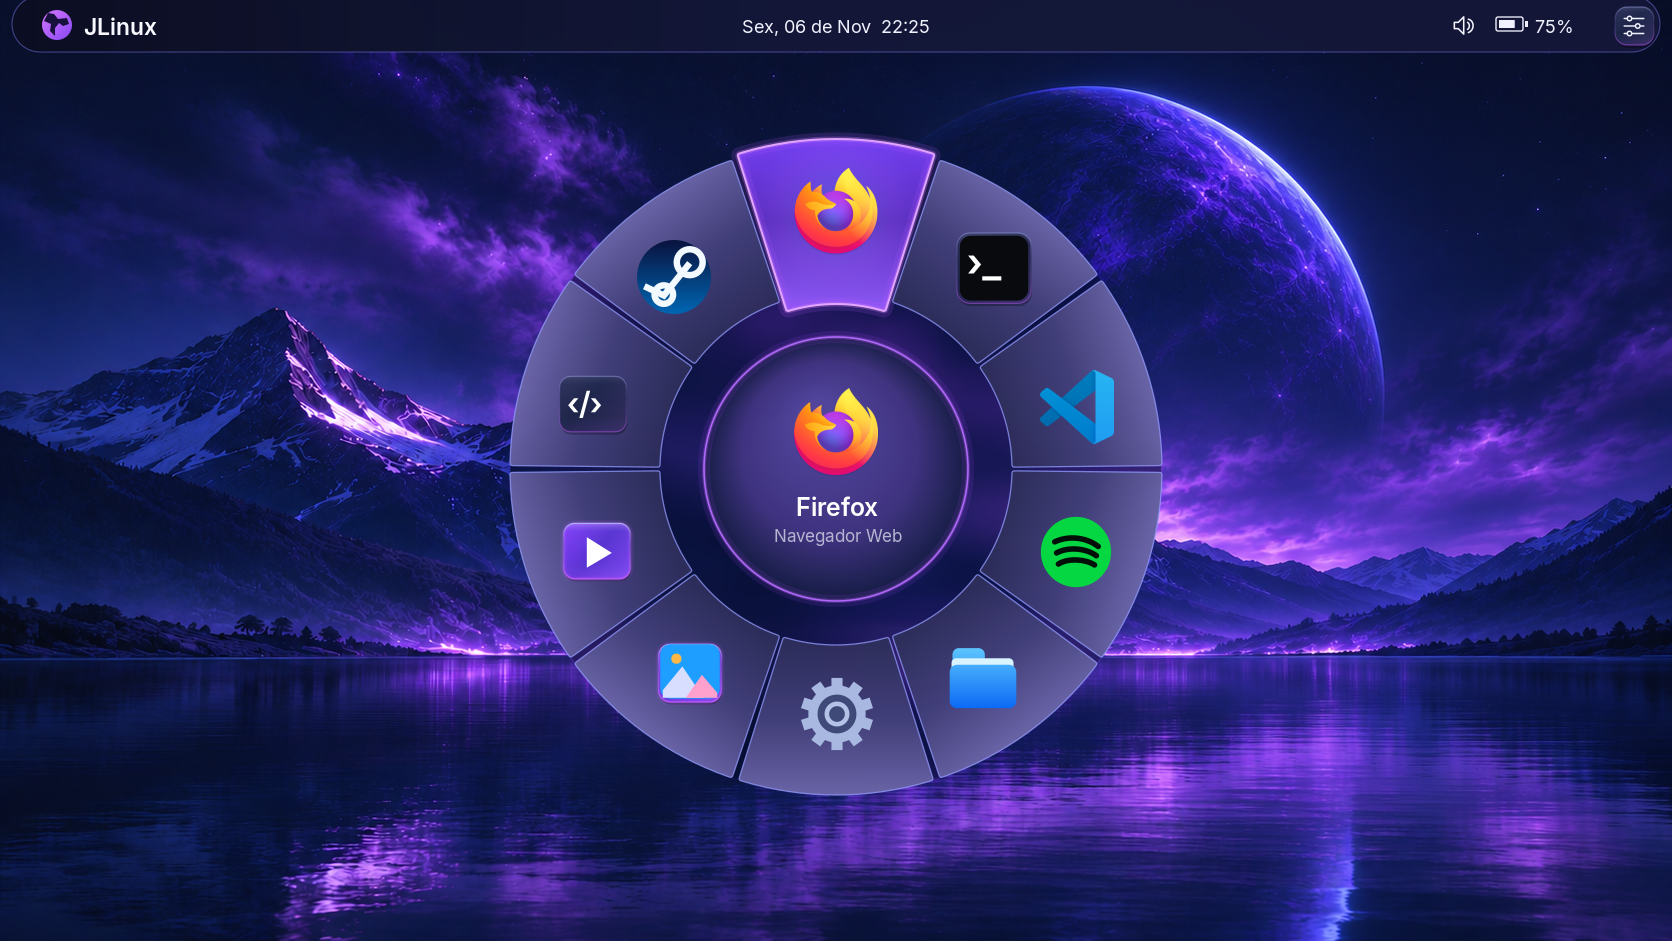
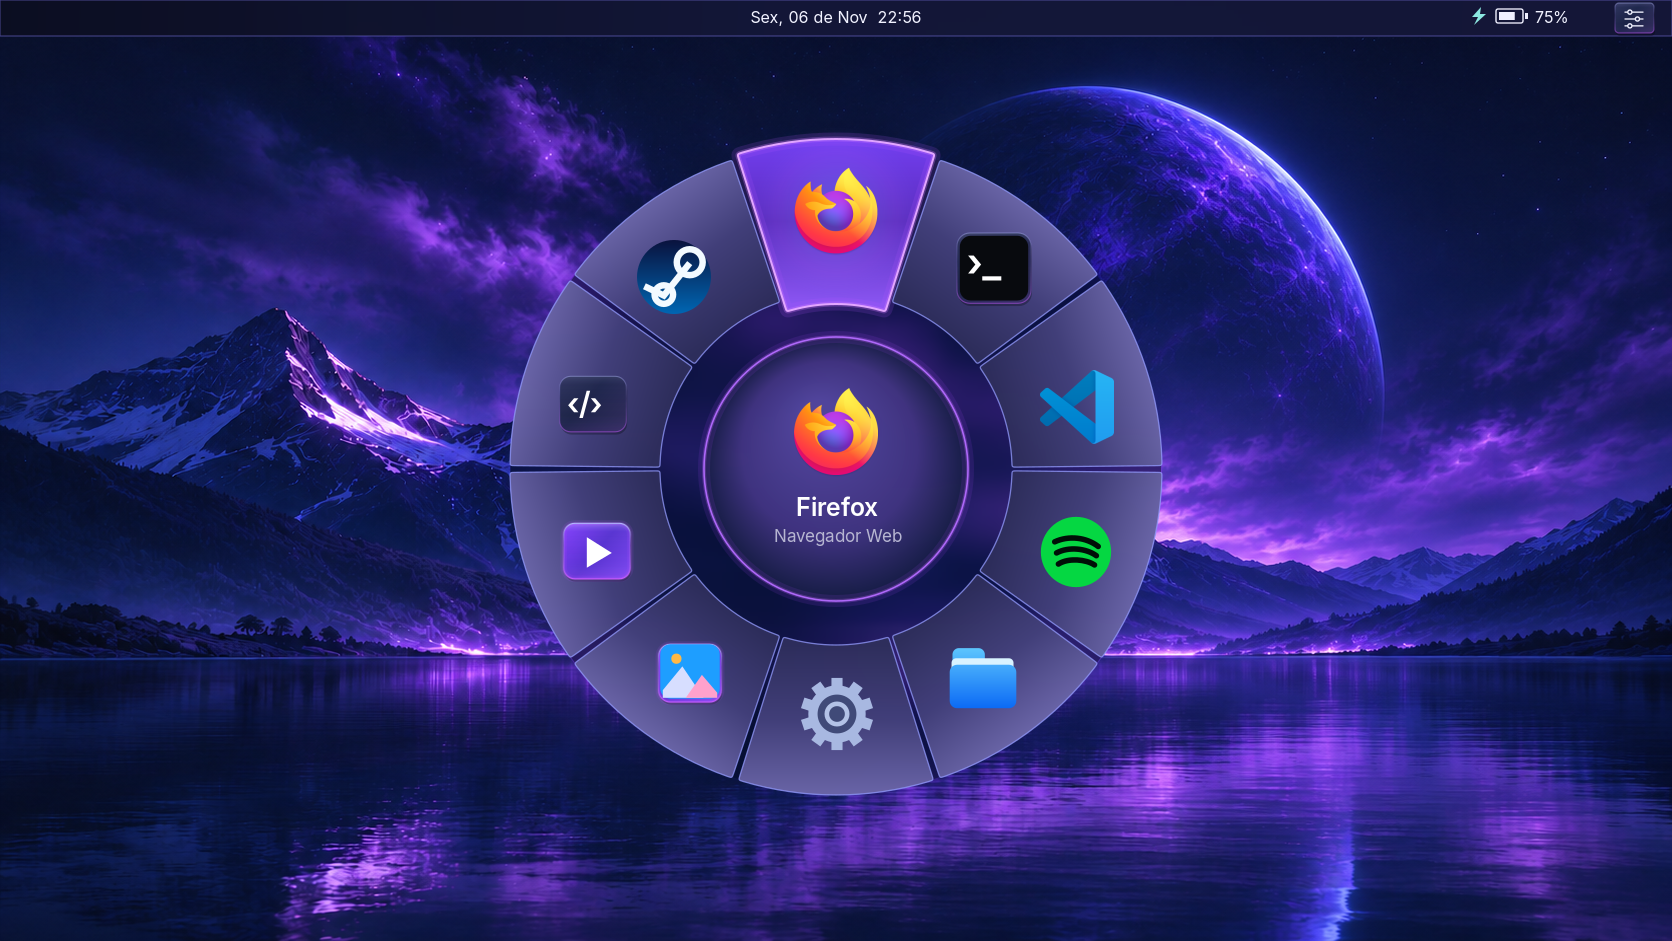
feat: compact top panel and show battery charging status

Changed region(s): [[0.0, 0.0, 1.0, 0.0616]]

diff --git a/src/shell/futurista.c b/src/shell/futurista.c
@@ -1,4 +1,5 @@
 #include "futurista.h"
+#include "battery.h"
 #include "../renderer/blur.h"
 #include "../effects/dock.h"
 #include <gio/gio.h>
@@ -417,9 +418,9 @@ static void blurred_backdrop(struct futurista *s, cairo_t *cr, int width, int he
 }
 void futurista_panel(struct futurista *s, cairo_t *cr, int width) {
     cairo_save(cr);
-    roundrect(cr, 12, -4, width - 24, 56, 28);
+    cairo_rectangle(cr, 0, 0, width, 36);
     blurred_backdrop(s, cr, width, 941);
-    roundrect(cr, 12, -4, width - 24, 56, 28);
+    cairo_rectangle(cr, 0, 0, width, 36);
     cairo_pattern_t *header = cairo_pattern_create_linear(0, 0, width, 52);
     cairo_pattern_add_color_stop_rgba(header, 0, s->glass.tint ? .045 : .07, s->glass.tint ? .055 : .07,
                                       s->glass.tint ? .13 : .07, .97);
@@ -437,30 +438,7 @@ void futurista_panel(struct futurista *s, cairo_t *cr, int width) {
     } else {
         cairo_new_path(cr);
     }
-    cairo_pattern_t *p = cairo_pattern_create_linear(42, 10, 72, 41);
-    cairo_pattern_add_color_stop_rgb(p, 0, .84, .46, 1);
-    cairo_pattern_add_color_stop_rgb(p, 1, .52, .28, .95);
-    circle(cr, 57, 25, 15);
-    cairo_set_source(cr, p);
-    cairo_fill(cr);
-    cairo_pattern_destroy(p);
-    cairo_set_source_rgb(cr, .10, .07, .24);
-    cairo_move_to(cr, 48, 13);
-    cairo_line_to(cr, 54, 14);
-    cairo_line_to(cr, 58, 19);
-    cairo_line_to(cr, 67, 18);
-    cairo_line_to(cr, 69, 24);
-    cairo_line_to(cr, 63, 26);
-    cairo_line_to(cr, 59, 23);
-    cairo_line_to(cr, 55, 28);
-    cairo_line_to(cr, 55, 36);
-    cairo_line_to(cr, 50, 31);
-    cairo_line_to(cr, 51, 24);
-    cairo_line_to(cr, 44, 21);
-    cairo_close_path(cr);
-    cairo_fill(cr);
-    text(cr, "JLinux", 84, 12, 23, true, 0xf8f8ff);
-    line_icon(cr, 11, width - 220, 13, 25, 0xf4f3ff);
+    cairo_translate(cr, 0, -8);
     cairo_set_source_rgb(cr, .94, .94, 1);
     roundrect(cr, width - 176, 17, 27, 14, 2);
     cairo_set_line_width(cr, 1.4);
@@ -471,9 +449,16 @@ void futurista_panel(struct futurista *s, cairo_t *cr, int width) {
         cairo_rectangle(cr, width - 173, 20, 21 * s->battery / 100., 8);
         cairo_fill(cr);
     }
+    if (s->charging) {
+        cairo_set_source_rgb(cr, .55, .91, .88);
+        cairo_move_to(cr, width - 191, 15); cairo_line_to(cr, width - 200, 25);
+        cairo_line_to(cr, width - 194, 25); cairo_line_to(cr, width - 198, 33);
+        cairo_line_to(cr, width - 186, 22); cairo_line_to(cr, width - 192, 22);
+        cairo_close_path(cr); cairo_fill(cr);
+    }
     char battery[20];
     snprintf(battery, sizeof(battery), s->battery >= 0 ? "%d%%" : "—", s->battery);
-    text(cr, battery, width - 137, 15, 18, false, 0xf1f2ff);
+    text(cr, battery, width - 137, 15, 16, false, 0xf1f2ff);
     time_t now = time(NULL);
     struct tm t;
     localtime_r(&now, &t);
@@ -484,16 +469,16 @@ void futurista_panel(struct futurista *s, cairo_t *cr, int width) {
     snprintf(clock, sizeof(clock), "%s, %02d de %s  %02d:%02d", days[t.tm_wday], t.tm_mday, months[t.tm_mon],
              t.tm_hour, t.tm_min);
     PangoLayout *label = pango_cairo_create_layout(cr);
-    PangoFontDescription *font = pango_font_description_from_string("Adwaita Sans 18px");
+    PangoFontDescription *font = pango_font_description_from_string("Adwaita Sans 16px");
     pango_layout_set_font_description(label, font);
     pango_layout_set_text(label, clock, -1);
     int clock_width;
     pango_layout_get_pixel_size(label, &clock_width, NULL);
-    text(cr, clock, (width - clock_width) / 2., 15, 18, false, 0xf1f2ff);
+    text(cr, clock, (width - clock_width) / 2., 15, 16, false, 0xf1f2ff);
     pango_font_description_free(font);
     g_object_unref(label);
-    material(cr, width - 57, 7, 39, 38, 12, false, s->glass);
-    line_icon(cr, 13, width - 50, 14, 24, 0xf1f2ff);
+    material(cr, width - 57, 11, 39, 30, 4, false, s->glass);
+    line_icon(cr, 13, width - 49, 16, 22, 0xf1f2ff);
     cairo_restore(cr);
 }
 static void tint_stop(cairo_pattern_t *pattern, double position, double r, double g, double b, double alpha,
@@ -767,14 +752,8 @@ void futurista_status(struct futurista *s) {
     }
     globfree(&paths);
     memset(&paths, 0, sizeof(paths));
-    if (!glob("/sys/class/power_supply/*/capacity", 0, NULL, &paths) && paths.gl_pathc) {
-        int n = read_number(paths.gl_pathv[0]);
-        if (n >= 0 && n <= 100) {
-            s->battery = n;
-        }
-    }
-    globfree(&paths);
-    memset(&paths, 0, sizeof(paths));
+    struct battery_status battery = battery_read("/sys/class/power_supply");
+    s->battery = battery.percent; s->charging = battery.charging;
     if (!glob("/sys/class/net/*/wireless", 0, NULL, &paths)) {
         s->wifi = 0;
         for (size_t i = 0; i < paths.gl_pathc; i++) {

diff --git a/src/shell/battery.c b/src/shell/battery.c
@@ -1,0 +1,35 @@
+#include "battery.h"
+#include <ctype.h>
+#include <errno.h>
+#include <glob.h>
+#include <stdio.h>
+#include <stdlib.h>
+#include <string.h>
+struct battery_status battery_read(const char *root) {
+    struct battery_status result = {.percent = -1};
+    char pattern[4096];
+    int length = snprintf(pattern, sizeof(pattern), "%s/*/capacity", root);
+    if (length < 0 || (size_t)length >= sizeof(pattern)) { return result; }
+    glob_t paths = {0};
+    if (!glob(pattern, 0, NULL, &paths)) {
+        for (size_t i = 0; i < paths.gl_pathc; i++) {
+            FILE *file = fopen(paths.gl_pathv[i], "r"); char value[64];
+            if (!file) { continue; }
+            bool read = fgets(value, sizeof(value), file) != NULL; fclose(file);
+            if (!read) { continue; }
+            errno = 0; char *end; long percent = strtol(value, &end, 10);
+            if (end == value || errno || percent < 0 || percent > 100) { continue; }
+            while (isspace((unsigned char)*end)) { end++; }
+            if (*end) { continue; }
+            result.percent = (int)percent;
+            char status[4096];
+            length = snprintf(status, sizeof(status), "%.*s/status", (int)(strlen(paths.gl_pathv[i]) - 9), paths.gl_pathv[i]);
+            if (length >= 0 && (size_t)length < sizeof(status) && (file = fopen(status, "r"))) {
+                if (fgets(value, sizeof(value), file)) { value[strcspn(value, "\r\n")] = 0; result.charging = !strcmp(value, "Charging"); }
+                fclose(file);
+            }
+            break;
+        }
+    }
+    globfree(&paths); return result;
+}

diff --git a/tests/battery.c b/tests/battery.c
@@ -1,0 +1,24 @@
+#define _GNU_SOURCE
+#include "../src/shell/battery.h"
+#include <stdio.h>
+#include <stdlib.h>
+#include <sys/stat.h>
+#include <unistd.h>
+#define CHECK(x) do { if (!(x)) { fprintf(stderr,"Falha: %s\n",#x); return 1; } } while(0)
+static void write_file(const char *path, const char *text) { FILE *file = fopen(path,"w"); if (!file) { abort(); } fputs(text,file); fclose(file); }
+int main(void) {
+    char root[] = "/tmp/jlinux-battery-XXXXXX"; CHECK(mkdtemp(root));
+    char folder[256], capacity[256], status[256];
+    snprintf(folder,sizeof(folder),"%s/BAT0",root); CHECK(!mkdir(folder,0700));
+    snprintf(capacity,sizeof(capacity),"%s/BAT0/capacity",root);
+    snprintf(status,sizeof(status),"%s/BAT0/status",root);
+    CHECK(battery_read(root).percent == -1);
+    write_file(capacity,"75\n"); write_file(status,"Charging\n");
+    struct battery_status value = battery_read(root); CHECK(value.percent == 75 && value.charging);
+    const char *states[] = {"Discharging\n","Full\n","Not charging\n","Unknown\n"};
+    for (size_t i=0;i<4;i++) { write_file(status,states[i]); value=battery_read(root); CHECK(value.percent==75 && !value.charging); }
+    CHECK(!unlink(status)); CHECK(!battery_read(root).charging);
+    const char *invalid[] = {"-1\n","101\n","abc\n","999999999999999999999999\n","75garbage\n"};
+    for(size_t i=0;i<5;i++){write_file(capacity,invalid[i]);CHECK(battery_read(root).percent == -1);}
+    CHECK(!unlink(capacity)); CHECK(!rmdir(folder)); CHECK(!rmdir(root)); return 0;
+}

diff --git a/src/shell/main.c b/src/shell/main.c
@@ -30,7 +30,7 @@
 #include <wayland-cursor.h>
 #include "layer-shell-client.h"
 extern char **environ;
-enum { PANEL_BODY_HEIGHT = 52, PANEL_FADE_HEIGHT = 0,
+enum { PANEL_BODY_HEIGHT = 36, PANEL_FADE_HEIGHT = 0,
     PANEL_HEIGHT = PANEL_BODY_HEIGHT + PANEL_FADE_HEIGHT, PANEL_MARGIN = 6, PANEL_ZONE = PANEL_HEIGHT };
 struct app;
 struct surface {
@@ -543,7 +543,6 @@ static void pointer_button(void *data, struct wl_pointer *pointer, uint32_t seri
     } else if (app->pointer_surface == &app->panel) {
         if (!app->volume_panel && !app->power_panel) {
             if(app->pointer_x>=app->panel.width-60){toggle_launcher(app,true);}
-            else if(app->pointer_x>=app->panel.width-226 && app->pointer_x<app->panel.width-188){toggle_volume(app);}
 
         }
         else if (app->volume_panel || (app->pointer_x >= app->panel.width - 326 && app->pointer_x < app->panel.width - 272)) { toggle_volume(app); }
@@ -604,6 +603,7 @@ static int preview_futurista(const char *path, bool controls) {
     if (!futurista_init(&scene,effects)) { futurista_finish(&scene); return 1; }
     scene.wifi = 1;
     scene.battery = 75;
+    scene.charging = true; /* Illustrative status for the component preview. */
     scene.volume = .40;
     scene.brightness = .53;
     cairo_surface_t *image = cairo_image_surface_create(CAIRO_FORMAT_ARGB32, 1672, 941);

diff --git a/scripts/smoke-side-snap.py b/scripts/smoke-side-snap.py
@@ -54,13 +54,13 @@ with tempfile.TemporaryDirectory(prefix='jlinux-snap-') as directory:
             processes.remove(two)
             assert size() == original, 'closing another window resized the first'
             mouse(x + 160, y - 18, 0, 240)
-            h.wait_for(lambda: 'Janela encaixada: Snap-1 (634x629 em 3,88)' in log(), processes, 'left half respecting panel without lateral reserve')
+            h.wait_for(lambda: 'Janela encaixada: Snap-1 (634x645 em 3,72)' in log(), processes, 'left half respecting panel without lateral reserve')
             half = size()
             assert half[1] < original[1]
-            mouse(220, 68, 1279, 240)
-            h.wait_for(lambda: 'Janela encaixada: Snap-1 (634x629 em 643,88)' in log(), processes, 'right half')
+            mouse(220, 54, 1279, 240)
+            h.wait_for(lambda: 'Janela encaixada: Snap-1 (634x645 em 643,72)' in log(), processes, 'right half')
             assert size() == half
-            mouse(830, 68, 700, 240)
+            mouse(830, 54, 700, 240)
             assert size() == original, 'dragging away did not restore original dimensions'
             # At the top edge, with x away from the sides, no snap/maximize occurs.
             before = log().count('Janela encaixada:')

diff --git a/scripts/smoke-volume.py b/scripts/smoke-volume.py
@@ -48,7 +48,13 @@ if sys.argv[1] == 'get-volume': print('Volume: 0.40 [MUTED]')
                 name = 'jlinux-volume-button' if live else 'jlinux-panel'
                 wait_for(lambda: f'Interface mapeada: {name}' in log(), [server, client], name)
                 time.sleep(.2)
-                click(974 if live else 1074, 24)
+                if not live:
+                    click(1074, 18)
+                    assert 'Interface mapeada: jlinux-volume\n' not in log(), 'Área do volume removida ainda abre o popup'
+                    stop(client)
+                    assert client.returncode == 0
+                    continue
+                click(974, 18)
                 wait_for(lambda: recorded() and recorded()[-1][0] == 'get-volume', [server, client], 'consulta')
                 time.sleep(.15)
                 for x, expected in ((950, ['set-volume', '--limit', '1.0', '@DEFAULT_AUDIO_SINK@', '5%-']),

diff --git a/scripts/smoke-shell.py b/scripts/smoke-shell.py
@@ -73,7 +73,7 @@ def main():
                         wait_for(lambda: log().count("Janela maximizada:") > iteration,
                                  [server, client], "maximização sem reserva lateral")
                         sizes = re.findall(r"Janela maximizada: .* \((\d+)x(\d+) em (\d+),(\d+)\)", log())
-                        assert tuple(map(int, sizes[-1])) == (1274, 629, 3, 88), sizes[-1]
+                        assert tuple(map(int, sizes[-1])) == (1274, 645, 3, 72), sizes[-1]
 
                     stop(client)
                     assert client.returncode == 0, f"Shell encerrou com erro: {client.returncode}"

diff --git a/src/shell/futurista.h b/src/shell/futurista.h
@@ -6,7 +6,7 @@ struct futurista {
     struct jlinux_glass glass;
     int selected, wifi, battery;
     double volume, brightness, hover[10];
-    bool muted;
+    bool muted, charging;
     char message[180];
 };
 bool futurista_init(struct futurista *scene, struct jlinux_glass glass);

diff --git a/src/shell/battery.h b/src/shell/battery.h
@@ -1,0 +1,6 @@
+#ifndef JLINUX_BATTERY_H
+#define JLINUX_BATTERY_H
+#include <stdbool.h>
+struct battery_status { int percent; bool charging; };
+struct battery_status battery_read(const char *root);
+#endif

diff --git a/docs/futurista.md b/docs/futurista.md
@@ -49,3 +49,11 @@ Seleção angular: removido o limite de distância externa no hit test, mantendo
 A entrada vertical anterior foi removida. A transformação fica em renderer/dock-transform.c e recebe somente o progresso calculado por animation/transition.c; effects/dock.c desenha o halo sem relógio próprio. O halo respeita REFLECTION e não exige quadros extras: acompanha a transição de hover existente. Movimento reduzido continua aplicando estados finais imediatamente; desativar o halo não desativa escala/fade/hover. A região de rasterização permanece restrita ao retângulo final do dock.
 
 Teste de componente confere pivô invariável no centro, expansão monotônica até escala 1, inversão das coordenadas em todos os estágios e halo nulo quando intensidade é zero. Testes headless exercitam Super, seleção angular e modo reduzido. A imagem de prévia mostra apenas o estado final, não comprova fluidez no hardware. Sem benchmark de CPU/GPU/energia. Instalar não substitui o shell ativo; a nova entrada vale no próximo login.
+
+## Barra fina e bateria carregando
+
+Pedido atual: barra de 36 px, sem margem lateral, retangular e com cantos retos, substituindo a barra arredondada de 52 px. Logo/símbolo/texto JLinux e ícone/área de clique de volume removidos da barra. Data/hora central, bateria/porcentagem e botão compacto de ajustes preservados. Controles de volume continuam no centro de controle e no utilitário auxiliar, sem atalho invisível no antigo local da barra.
+
+A bateria mostra um raio azul-claro à esquerda quando o status da mesma fonte de capacity é exatamente Charging. Full, Discharging, Not charging, Unknown e ausência de status não acendem o raio; capacidade ausente/inválida mostra traço. src/shell/battery.c consulta somente sysfs e usa a primeira capacidade válida, mantendo a política de uma bateria da interface anterior. Não agrega múltiplas baterias. Atualização usa o relógio de status existente do shell, sem timer novo.
+
+A prévia futurista-dock-only.png usa 75% e estado Charging ilustrativos, não representa a carga real do computador. Testes de leitura usam diretório temporário e cobrem carga, descarga, cheia, estado ausente e capacidades inválidas. Testes headless de maximização/encaixe foram atualizados para a reserva de 36 px. Alterações compiladas entram no próximo login: o shell ativo não recarrega seu código.

diff --git a/TASKS.md b/TASKS.md
@@ -385,3 +385,9 @@ DOCK-CENTER remove entrada vertical e aplica expansão 18%→100% com fade, anco
 24 testes locais release e ASan/UBSan passaram antes do refinamento final de clip; repetição relevante e pacote registrados na conclusão. Teste novo verifica centro fixo, escala final, inversa e halo zero/positivo. Prévia do estado final inspecionada. Sem benchmark ou teste físico de GPU/VT. Shell ativo preservado; ativação no próximo login.
 
 **DOCK-CENTER · instalado:** pacote `0.5.0.r85.g024bcbb-1`, fonte 024bcbb, compilado do GitHub com 24 testes aprovados no makepkg e instalado pelo pacman. Release final: 24 aprovados; ASan/UBSan: bateria de 24 antes do refinamento final de clip e três testes relevantes (dock-visual/futurista-headless/dock-reduced-motion) repetidos depois, aprovados. Prévia estática inspecionada; sem benchmark ou avaliação visual da animação no hardware. Shell supervisionado atual preservado, nova animação/halo entram no próximo login. Sem logout/reinício/VT. PR #68, base feature/angular-dock-selection, sem merge; CI pendente no registro.
+
+## Barra compacta com carga da bateria — feature/compact-status-panel
+
+PANEL-COMPACT implementado: barra 36 px de largura total e cantos retos; logo/texto JLinux e ícone/hit area de volume removidos. Relógio/bateria/ajustes redimensionados. Raio de carregamento depende do status Charging da fonte que forneceu capacity; percentuais inválidos resultam em bateria desconhecida. Volume permanece no centro de controle. Sem novo timer; política de uma bateria preservada.
+
+25 testes locais release passaram; ASan/UBSan e instalação registrados na conclusão. Novo teste usa sysfs fictício para estados de carga/descarga/cheia/ausente e capacidade inválida. Regressões de área útil, snap e clique no espaço do volume antigo atualizadas. Prévia inspecionada com Charging/75% ilustrativos; sysfs real informava Charging na inspeção, sem confundir com prévia. Sem reinício da sessão, benchmark ou teste físico visual. Próximo login ativa a barra compilada.

diff --git a/docs/validation.md b/docs/validation.md
@@ -217,3 +217,9 @@ DOCK-CENTER remove entrada vertical e aplica expansão 18%→100% com fade, anco
 24 testes locais release e ASan/UBSan passaram antes do refinamento final de clip; repetição relevante e pacote registrados na conclusão. Teste novo verifica centro fixo, escala final, inversa e halo zero/positivo. Prévia do estado final inspecionada. Sem benchmark ou teste físico de GPU/VT. Shell ativo preservado; ativação no próximo login.
 
 **DOCK-CENTER · instalado:** pacote `0.5.0.r85.g024bcbb-1`, fonte 024bcbb, compilado do GitHub com 24 testes aprovados no makepkg e instalado pelo pacman. Release final: 24 aprovados; ASan/UBSan: bateria de 24 antes do refinamento final de clip e três testes relevantes (dock-visual/futurista-headless/dock-reduced-motion) repetidos depois, aprovados. Prévia estática inspecionada; sem benchmark ou avaliação visual da animação no hardware. Shell supervisionado atual preservado, nova animação/halo entram no próximo login. Sem logout/reinício/VT. PR #68, base feature/angular-dock-selection, sem merge; CI pendente no registro.
+
+## Barra compacta com carga da bateria — feature/compact-status-panel
+
+PANEL-COMPACT implementado: barra 36 px de largura total e cantos retos; logo/texto JLinux e ícone/hit area de volume removidos. Relógio/bateria/ajustes redimensionados. Raio de carregamento depende do status Charging da fonte que forneceu capacity; percentuais inválidos resultam em bateria desconhecida. Volume permanece no centro de controle. Sem novo timer; política de uma bateria preservada.
+
+25 testes locais release passaram; ASan/UBSan e instalação registrados na conclusão. Novo teste usa sysfs fictício para estados de carga/descarga/cheia/ausente e capacidade inválida. Regressões de área útil, snap e clique no espaço do volume antigo atualizadas. Prévia inspecionada com Charging/75% ilustrativos; sysfs real informava Charging na inspeção, sem confundir com prévia. Sem reinício da sessão, benchmark ou teste físico visual. Próximo login ativa a barra compilada.
